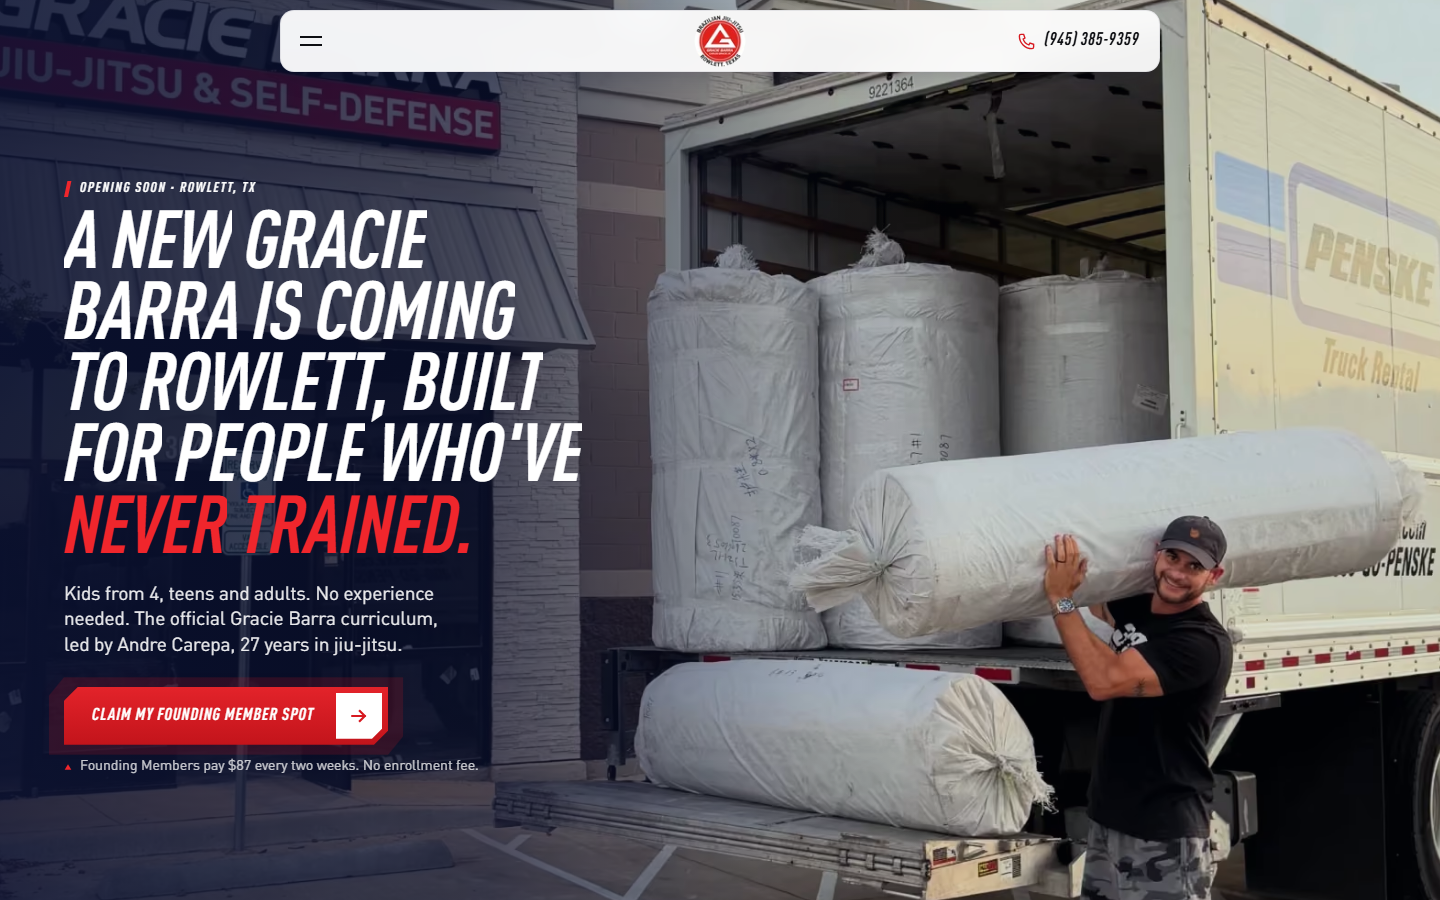
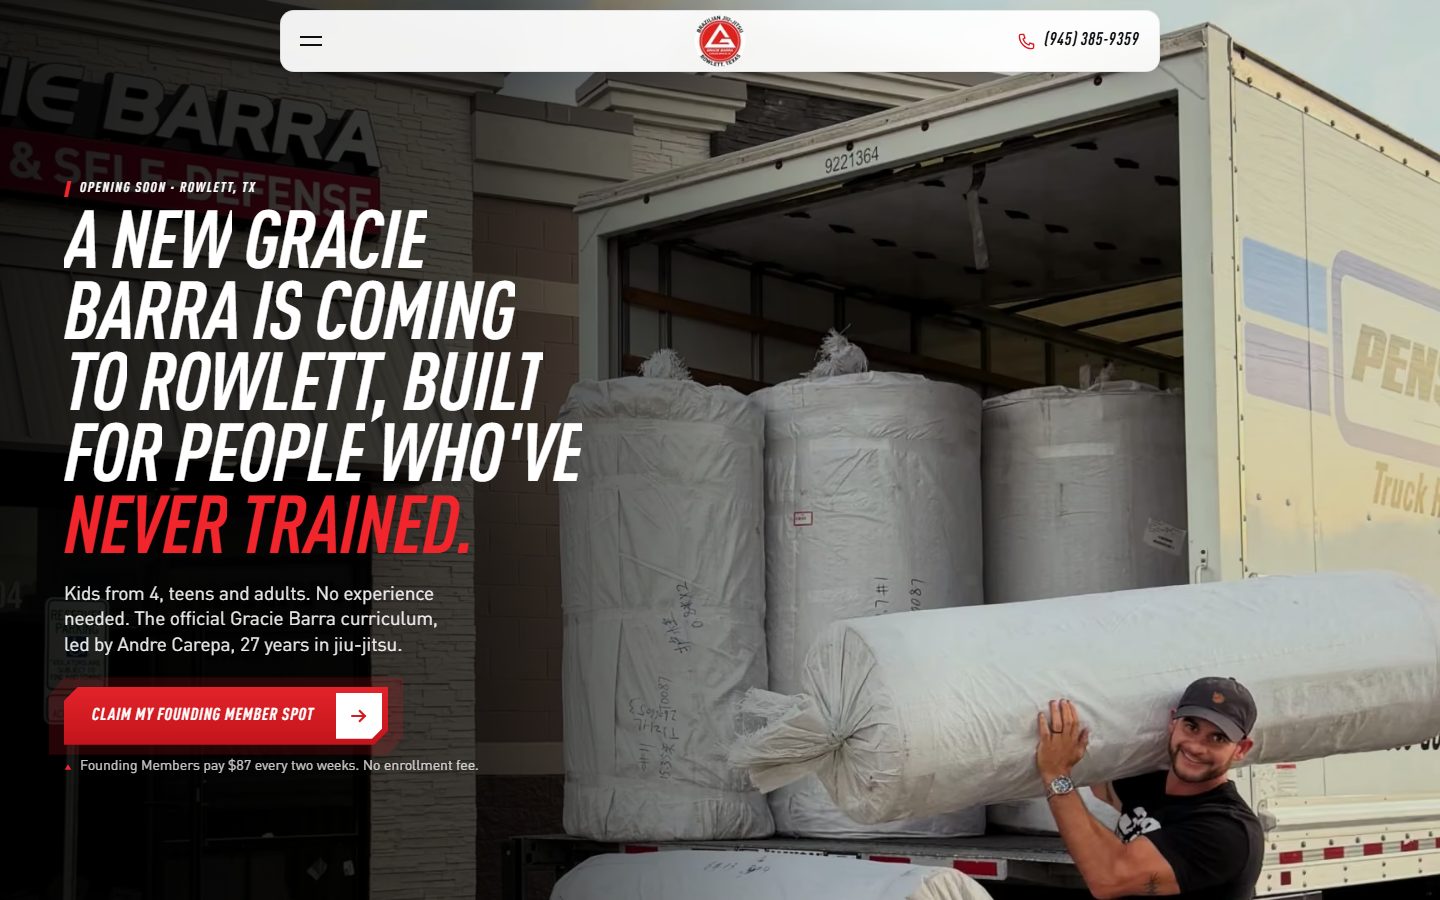
fix(hero): black overlay; desktop always serves the 2550x1080 export at its drawn size, without the entry zoom

diff --git a/src/styles/sections.css b/src/styles/sections.css
@@ -261,7 +261,7 @@ html.bk-open .nav {
   position: absolute;
   inset: 0;
   overflow: hidden;
-  background: var(--night);
+  background: rgb(0 0 0);
 }
 .hero__poster,
 .hero__poster img,
@@ -289,15 +289,15 @@ html.bk-open .nav {
   position: absolute;
   inset: 0;
   background:
-    linear-gradient(0deg, rgb(var(--navy-rgb) / 0.92) 0%, rgb(var(--navy-rgb) / 0.78) 34%, rgb(var(--navy-rgb) / 0.2) 62%, rgb(var(--navy-rgb) / 0) 78%),
-    rgb(var(--navy-rgb) / 0.12);
+    linear-gradient(0deg, rgb(0 0 0 / 0.92) 0%, rgb(0 0 0 / 0.78) 34%, rgb(0 0 0 / 0.2) 62%, rgb(0 0 0 / 0) 78%),
+    rgb(0 0 0 / 0.12);
   opacity: var(--k);
 }
-/* cena 2: o filme inteiro sob o marinho, para o texto centralizado */
+/* cena 2: o filme inteiro sob o preto, para o texto centralizado */
 .hero__deep {
   position: absolute;
   inset: 0;
-  background: radial-gradient(ellipse at 50% 50%, rgb(var(--navy-rgb) / 0.55), rgb(var(--navy-rgb) / 0.82) 80%);
+  background: radial-gradient(ellipse at 50% 50%, rgb(0 0 0 / 0.55), rgb(0 0 0 / 0.82) 80%);
   opacity: var(--p);
 }
 .hero__scene {
@@ -388,7 +388,7 @@ html.bk-open .nav {
   width: 96%;
   font-style: italic;
   letter-spacing: -0.01em;
-  text-shadow: 0 2px 28px rgb(var(--navy-rgb) / 0.45);
+  text-shadow: 0 2px 28px rgb(0 0 0 / 0.45);
 }
 .hero__need-l {
   display: block;
@@ -425,8 +425,8 @@ html:not(.motion) .hero__deep {
   /* duas colunas: o texto na esquerda, sobre a parede; o professor na direita */
   .hero__veil {
     background:
-      linear-gradient(90deg, rgb(var(--navy-rgb) / 0.86) 0%, rgb(var(--navy-rgb) / 0.66) 34%, rgb(var(--navy-rgb) / 0.12) 56%, rgb(var(--navy-rgb) / 0) 66%),
-      rgb(var(--navy-rgb) / 0.1);
+      linear-gradient(90deg, rgb(0 0 0 / 0.86) 0%, rgb(0 0 0 / 0.66) 34%, rgb(0 0 0 / 0.12) 56%, rgb(0 0 0 / 0) 66%),
+      rgb(0 0 0 / 0.1);
   }
   .hero__scene--card {
     align-items: center;
@@ -438,7 +438,7 @@ html:not(.motion) .hero__deep {
   .hero__poster img,
   .hero__video {
     object-position: 75% 62%;
-    transform-origin: 75% 62%;
+    transform: none;
   }
   /* .hero .hero__copy: vence o width:100% do .shell */
   .hero .hero__copy {

diff --git a/src/components/sections/Hero.tsx b/src/components/sections/Hero.tsx
@@ -99,7 +99,7 @@ export function Hero() {
             sizes="100vw"
             className="hero__poster"
             art={[
-              { name: 'hero-w', media: '(min-width: 768px) and (min-aspect-ratio: 2/1)', sizes: '100vw' },
+              { name: 'hero-w', media: '(min-width: 1024px)', sizes: 'max(100vw, 236svh)' },
               { name: 'hero-d', media: '(min-width: 768px)', sizes: '100vw' },
             ]}
           />

diff --git a/public/memory/design-decisions.md b/public/memory/design-decisions.md
@@ -161,3 +161,4 @@ A tabela viva é a §20 do `prd-GBR-001.md` (23 itens). Resumo do que trava o mo
 - **Foto nova do hero (Adryan, 9 out 2026):** a fachada com a chegada do tatame, em três recortes de direção de arte (brand/hero): celular quadrado (film-m, 540–1080), desktop 16:9 (hero-d, 1280/1920) e ultrawide ~2,4:1 (hero-w, 1920/2550, usado quando a tela tem proporção ≥ 2:1). O Pic aceita mais de uma fonte de direção de arte; os preloads do pré-render acompanham as três. Foto e zoom de entrada ancorados em 75% 62% no desktop para quem carrega o tatame não sair pela borda de baixo.
 - **Para os pais em 100vh (Adryan):** a seção tem uma tela de altura. No desktop os três cards dividem a altura que sobra (380–680px). No celular os cards viram uma fila que desliza para o lado (um card e a pontinha do próximo), com o botão embaixo, tudo numa tela.
 - **Coach recortado no "No experience" (Adryan):** no lugar da foto do tatame entra public/img/coach.webp (o coach sem fundo, com o triângulo GB vermelho atrás), processado com alfa (coach-480/800/1198, fonte em brand/coach). Sem moldura, sem cantos e sem véu: ele fica de pé na borda de baixo da seção, com o botão sobre a faixa preta. Sai a foto antiga "ready" (IMG_0213).
+- **Hero no desktop (Adryan: "vc não tá usando a 2550×1080, tá esticada"):** a partir de 1024px a foto é SEMPRE a 2550×1080 exportada pelo Adryan (hero-w), pedida no tamanho em que é desenhada (sizes max(100vw, 236svh)); a 16:9 fica só no tablet (768–1023). Sem o zoom de entrada (1,1 → 1) no desktop, que fazia a foto parecer esticada. Overlay do hero em preto (era marinho).
